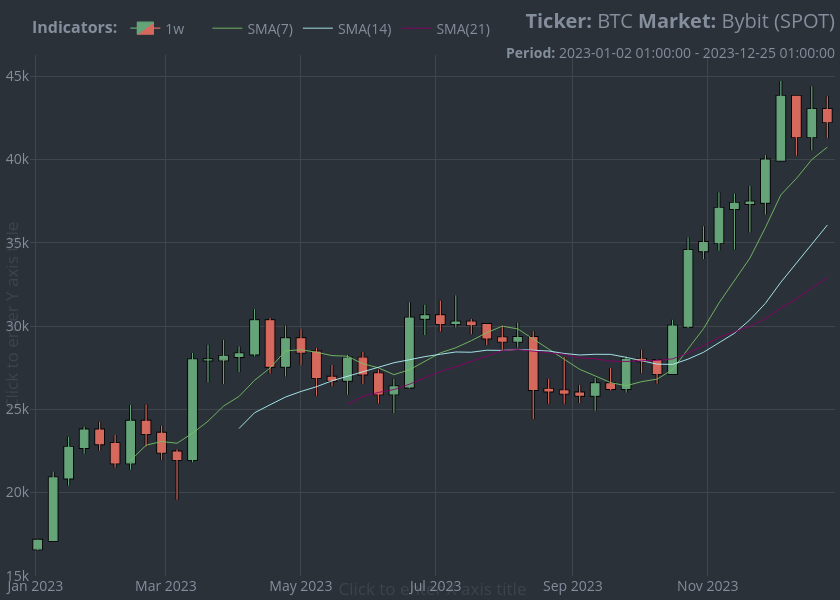
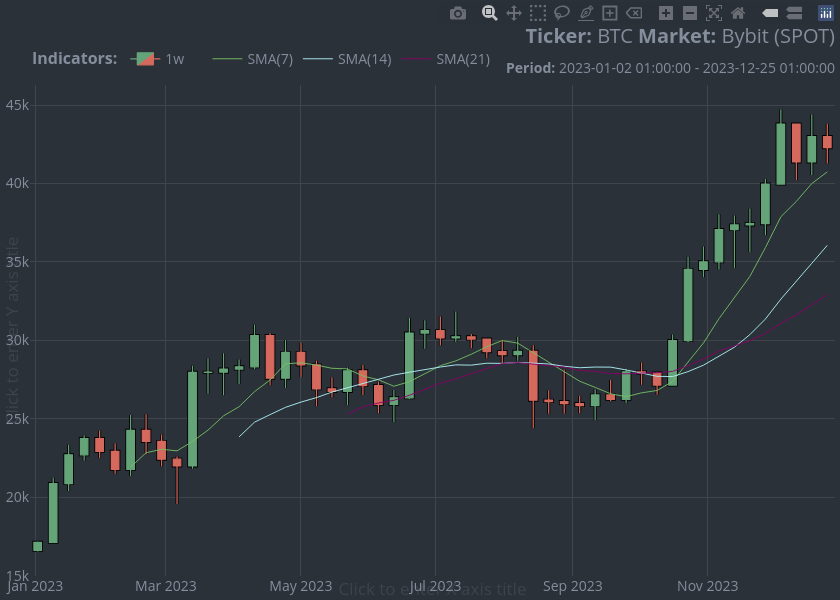
Update Chart Options :heart_eyes:
The chart-function now has the following options:

* scale: scales the font-size.
* static: a logical value FALSE by default. If TRUE it act as a regular static plot a la ggplot.

The chart function now asserts the size being between 0 and 1, and checks for valid hcl.palettes with ignore.case set to TRUE.

All subcharts have had annotations multiplied by args from the chart funciton.

NOTE: All checks have passed locally :rocket:

diff --git a/NEWS.md b/NEWS.md
@@ -16,14 +16,17 @@
   interactively change the `title` and `subtitle` by double clicking
   these (Thank you @andreltr for the suggestion. See
   [Discussion](https://github.com/serkor1/cryptoQuotes/discussions/19).
-- The `chart()`-function now has a new option `modebar` that is equal to
-  `TRUE` by default. If `FALSE` no `modebar` will appear on the `chart`
+- The `chart()`-function now has a new option `static` that is equal to
+  `FALSE` by default. If `FALSE` the chart can be edited, annotated and
+  explored interactively.
 - The `chart()`-function now has a new option `palette` that is set to
   “hawaii” by default. See \[hcl.pals()\] for accepted values.
+- The `chart()`-function now has a new option `scale` that is set to 1
+  by default. Scales \#’ all fonts on the chart.
 
 <details>
 <summary>
-Without modebar (Default Palette)
+Static set to FALSE (Default Palette)
 </summary>
 
 ``` r
@@ -37,7 +40,7 @@ chart(
     sma(n = 21)
   ),
   options = list(
-    modebar = FALSE,
+    static = FALSE,
     palette = "hawaii"
   ) 
 )
@@ -47,7 +50,7 @@ chart(
 </details>
 <details>
 <summary>
-With modebar (“Set 3” palette)
+Static set to TRUE (“Set 3” palette)
 </summary>
 
 ``` r
@@ -61,7 +64,7 @@ chart(
     sma(n = 21)
   ),
   options = list(
-    modebar = TRUE,
+    static  = TRUE,
     palette = "Set 3"
   ) 
 )
@@ -160,12 +163,12 @@ tail(
 ```
 
     #>                     open_interest
-    #> 2024-06-26 08:00:00      2355.272
-    #> 2024-06-26 09:00:00      2414.858
-    #> 2024-06-26 10:00:00      2411.043
-    #> 2024-06-26 11:00:00      2390.814
-    #> 2024-06-26 12:00:00      2379.619
-    #> 2024-06-26 13:00:00      2363.744
+    #> 2024-06-28 18:00:00      2422.880
+    #> 2024-06-28 19:00:00      2419.634
+    #> 2024-06-28 20:00:00      2408.566
+    #> 2024-06-28 21:00:00      2409.375
+    #> 2024-06-28 22:00:00      2399.027
+    #> 2024-06-28 23:00:00      2396.589
 
 </details>
 
@@ -346,12 +349,12 @@ tail(
 ```
 
     #>                     funding_rate
-    #> 2024-06-24 18:00:00    7.488e-05
-    #> 2024-06-25 02:00:00    7.447e-05
-    #> 2024-06-25 10:00:00    5.949e-05
-    #> 2024-06-25 18:00:00    7.752e-05
-    #> 2024-06-26 02:00:00    1.000e-04
-    #> 2024-06-26 10:00:00    1.000e-04
+    #> 2024-06-27 02:00:00        1e-04
+    #> 2024-06-27 10:00:00        1e-04
+    #> 2024-06-27 18:00:00        1e-04
+    #> 2024-06-28 02:00:00        1e-04
+    #> 2024-06-28 10:00:00        1e-04
+    #> 2024-06-28 18:00:00        1e-04
 
 </details>
 
@@ -373,12 +376,12 @@ tail(
 ```
 
     #>                     open_interest
-    #> 2024-06-21 02:00:00      74377.63
-    #> 2024-06-22 02:00:00      76738.13
     #> 2024-06-23 02:00:00      78036.86
     #> 2024-06-24 02:00:00      77593.99
     #> 2024-06-25 02:00:00      76111.90
     #> 2024-06-26 02:00:00      75584.46
+    #> 2024-06-27 02:00:00      74876.90
+    #> 2024-06-28 02:00:00      74906.65
 
 </details>
 
